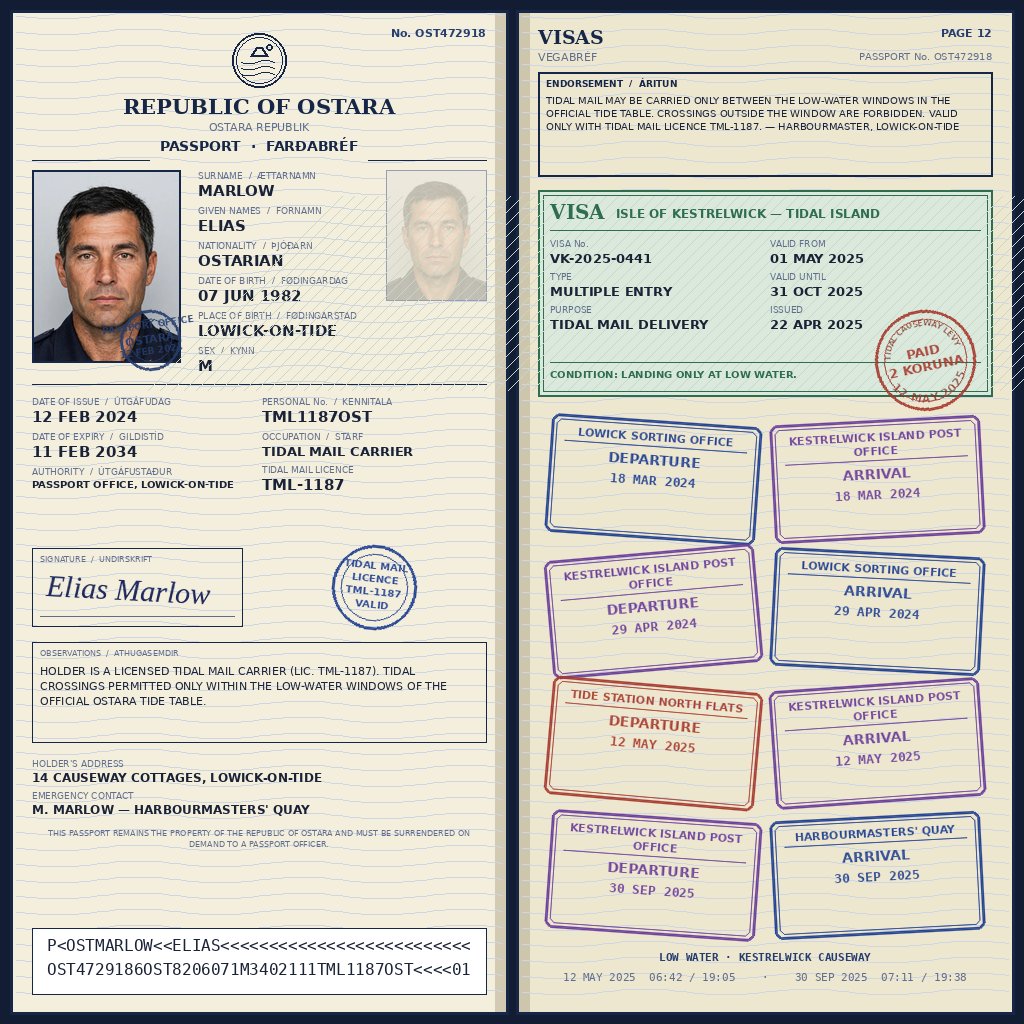
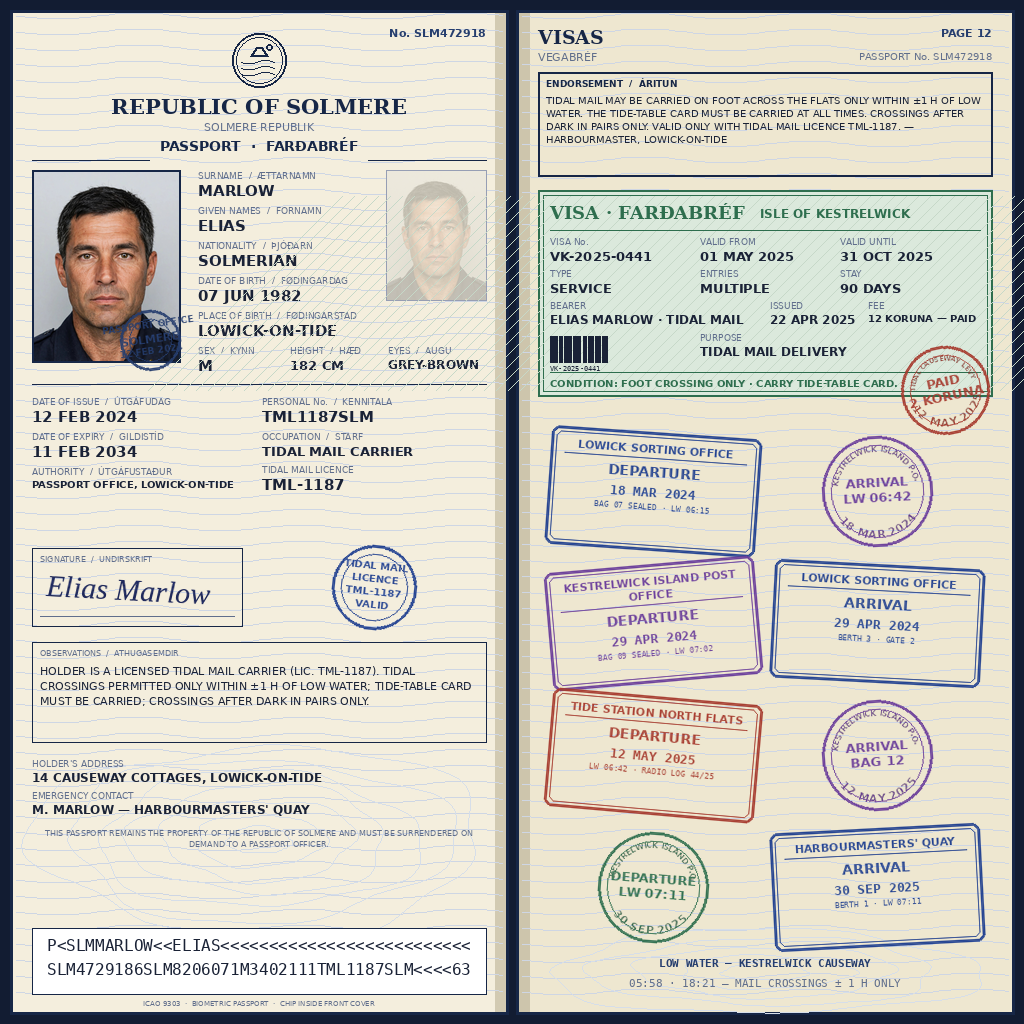
Republic of Solmere — tidal mail carrier's passport (v5, refined)

diff --git a/main.ts b/main.ts
@@ -1,4 +1,4 @@
-// Republic of Ostara passport spread — make.fun entry.
+// Republic of Solmere passport spread — make.fun entry.
 // Writes the pre-rendered, deterministic entry.png to the output directory.
 // The image itself is generated by generate.py (PIL, no network, no
 // randomness, verified byte-identical across runs); this entrypoint only

diff --git a/generate.py b/generate.py
@@ -1,5 +1,5 @@
 #!/usr/bin/env python3
-"""Deterministic generator for the Republic of Ostara passport spread (1024x1024).
+"""Deterministic generator for the Republic of Solmere passport spread (1024x1024).
 
 Builds entry.png from portrait.jpg with PIL only. No network, no randomness,
 no timestamps: re-running produces a byte-identical file.
@@ -137,7 +137,7 @@ def round_stamp(base, cx, cy, r, top_text, bottom_text, centre_lines, color,
     base.paste(layer, (int(cx - s / 2), int(cy - s / 2)), layer)
 
 
-def rect_stamp(base, x, y, w, h, station, kind, date, color, angle):
+def rect_stamp(base, x, y, w, h, station, kind, date, color, angle, note=""):
     pad = 26
     layer = Image.new("RGBA", (w + pad * 2, h + pad * 2), (0, 0, 0, 0))
     d = ImageDraw.Draw(layer)
@@ -164,8 +164,24 @@ def rect_stamp(base, x, y, w, h, station, kind, date, color, angle):
     yy += 20
     f = MONOB(13)
     d.text((cx - f.getlength(date) / 2, yy), date, font=f, fill=col)
+    if note:
+        f = MONO(8)
+        d.text((cx - f.getlength(note) / 2, yy + 18), note, font=f, fill=col)
     layer = layer.rotate(angle, resample=Image.BICUBIC, expand=False)
     base.paste(layer, (int(x - pad), int(y - pad)), layer)
+
+
+def contour(d, cx, cy, rx, ry, rings=6, color=(214, 222, 233)):
+    """Faint tidal-flat contour watermark: nested wavy closed curves."""
+    for k in range(rings):
+        f = (k + 1) / rings
+        pts = []
+        for t in range(0, 361, 4):
+            a = math.radians(t)
+            wob = 1 + 0.06 * math.sin(3 * a + k * 1.7) + 0.04 * math.sin(7 * a + k)
+            pts.append((cx + rx * f * wob * math.cos(a),
+                        cy + ry * f * wob * math.sin(a)))
+        d.line(pts, fill=color, width=1)
 
 
 def emblem(d, cx, cy, r, color=NAVY):
@@ -196,16 +212,19 @@ def build():
     d.rectangle([516, 10, 1014, 1014], outline=NAVY, width=3)
     guilloche(d, 16, 16, 502, 1008)
     guilloche(d, 522, 16, 1008, 1008)
+    # faint tidal-flat contour watermarks (drawn first, text sits on top)
+    contour(d, 259, 840, 225, 95, rings=7)
+    contour(d, 765, 972, 215, 42, rings=5)
 
     # ================= LEFT: DATA PAGE =================
     LX0, LX1 = 32, 486
-    d.text((LX1 - SANSB(11).getlength("No. OST472918"), 26),
-           "No. OST472918", font=SANSB(11), fill=NAVY2)
+    d.text((LX1 - SANSB(11).getlength("No. SLM472918"), 26),
+           "No. SLM472918", font=SANSB(11), fill=NAVY2)
     emblem(d, 259, 60, 27)
-    t = "REPUBLIC OF OSTARA"
+    t = "REPUBLIC OF SOLMERE"
     f = SERIFB(21)
     d.text((259 - f.getlength(t) / 2, 94), t, font=f, fill=NAVY)
-    t = "OSTARA REPUBLIK"
+    t = "SOLMERE REPUBLIK"
     f = SANS(11)
     d.text((259 - f.getlength(t) / 2, 120), t, font=f, fill=GREYBLUE)
     t = "PASSPORT  ·  FARÐABRÉF"
@@ -246,10 +265,13 @@ def build():
     fx, fy = 198, 170
     fy = field(d, fx, fy, "SURNAME  /  ÆTTARNAMN", "MARLOW", w=180)
     fy = field(d, fx, fy, "GIVEN NAMES  /  FORNAMN", "ELIAS", w=180)
-    fy = field(d, fx, fy, "NATIONALITY  /  ÞJÓÐARN", "OSTARIAN", w=180)
+    fy = field(d, fx, fy, "NATIONALITY  /  ÞJÓÐARN", "SOLMERIAN", w=180)
     fy = field(d, fx, fy, "DATE OF BIRTH  /  FØDINGARDAG", "07 JUN 1982", w=180)
     fy = field(d, fx, fy, "PLACE OF BIRTH  /  FØDINGARSTAD", "LOWICK-ON-TIDE", w=180)
-    fy = field(d, fx, fy, "SEX  /  KYNN", "M", w=180)
+    # split row: sex + height + eyes
+    field(d, fx, fy, "SEX  /  KYNN", "M", w=80)
+    field(d, 290, fy, "HEIGHT  /  HÆÐ", "182 CM", vsize=13, w=90)
+    field(d, 388, fy, "EYES  /  AUGU", "GREY-BROWN", vsize=13, w=98)
 
     d.line([LX0, 384, LX1, 384], fill=NAVY, width=1)
     y = 396
@@ -258,7 +280,7 @@ def build():
     y = field(d, LX0, y, "AUTHORITY  /  ÚTGÁFUSTAÐUR",
               "PASSPORT OFFICE, LOWICK-ON-TIDE", vsize=12, w=210)
     y2 = 396
-    y2 = field(d, 262, y2, "PERSONAL No.  /  KENNITALA", "TML1187OST", w=224)
+    y2 = field(d, 262, y2, "PERSONAL No.  /  KENNITALA", "TML1187SLM", w=224)
     y2 = field(d, 262, y2, "OCCUPATION  /  STARF", "TIDAL MAIL CARRIER", vsize=13, w=224)
     y2 = field(d, 262, y2, "TIDAL MAIL LICENCE", "TML-1187", w=224)
 
@@ -282,8 +304,9 @@ def build():
     d.text((LX0 + 8, 648), "OBSERVATIONS  /  ATHUGASEMDIR", font=SANS(8),
            fill=GREYBLUE)
     obs = ("HOLDER IS A LICENSED TIDAL MAIL CARRIER (LIC. TML-1187). "
-           "TIDAL CROSSINGS PERMITTED ONLY WITHIN THE LOW-WATER WINDOWS "
-           "OF THE OFFICIAL OSTARA TIDE TABLE.")
+           "TIDAL CROSSINGS PERMITTED ONLY WITHIN ±1 H OF LOW WATER; "
+           "TIDE-TABLE CARD MUST BE CARRIED; CROSSINGS AFTER DARK IN "
+           "PAIRS ONLY.")
     yy = 664
     for ln in wrap(obs, SANS(11), LX1 - LX0 - 16):
         d.text((LX0 + 8, yy), ln, font=SANS(11), fill=INK)
@@ -295,7 +318,7 @@ def build():
               vsize=12, w=454)
     y = field(d, LX0, y, "EMERGENCY CONTACT", "M. MARLOW — HARBOURMASTERS' QUAY",
               vsize=12, w=454)
-    fp = ("THIS PASSPORT REMAINS THE PROPERTY OF THE REPUBLIC OF OSTARA "
+    fp = ("THIS PASSPORT REMAINS THE PROPERTY OF THE REPUBLIC OF SOLMERE "
           "AND MUST BE SURRENDERED ON DEMAND TO A PASSPORT OFFICER.")
     yy = y + 6
     for ln in wrap(fp, SANS(8), LX1 - LX0):
@@ -305,17 +328,20 @@ def build():
 
     # issuing-office round stamp overlapping the photo corner only
     round_stamp(img, 150, 340, 30, "", "",
-                ["PASSPORT OFFICE", "OSTARA", "12 FEB 2024"], NAVY2, angle=8,
+                ["PASSPORT OFFICE", "SOLMERE", "12 FEB 2024"], NAVY2, angle=8,
                 arc=False)
 
     # MRZ
     d.rectangle([LX0, 928, LX1, 994], fill=(255, 255, 255))
     d.rectangle([LX0, 928, LX1, 994], outline=NAVY, width=1)
-    m1 = "P<OSTMARLOW<<ELIAS<<<<<<<<<<<<<<<<<<<<<<<<<<"
-    m2 = "OST4729186OST8206071M3402111TML1187OST<<<<01"
+    m1 = "P<SLMMARLOW<<ELIAS<<<<<<<<<<<<<<<<<<<<<<<<<<"
+    m2 = "SLM4729186SLM8206071M3402111TML1187SLM<<<<63"
     fm = MONO(16)
     d.text((259 - fm.getlength(m1) / 2, 936), m1, font=fm, fill=INK)
     d.text((259 - fm.getlength(m2) / 2, 960), m2, font=fm, fill=INK)
+    t = "ICAO 9303  ·  BIOMETRIC PASSPORT  ·  CHIP INSIDE FRONT COVER"
+    f = SANS(7)
+    d.text((259 - f.getlength(t) / 2, 999), t, font=f, fill=GREYBLUE)
 
     # ================= RIGHT: VISAS PAGE =================
     RX0, RX1 = 538, 992
@@ -328,23 +354,24 @@ def build():
     t = "PAGE 12"
     f = SANSB(11)
     d.text((RX1 - f.getlength(t), 26), t, font=f, fill=NAVY2)
-    t = "PASSPORT No. OST472918"
+    t = "PASSPORT No. SLM472918"
     f = SANS(10)
     d.text((RX1 - f.getlength(t), 50), t, font=f, fill=GREYBLUE)
 
     # endorsement box
     d.rectangle([RX0, 72, RX1, 176], outline=NAVY, width=2)
     d.text((RX0 + 8, 78), "ENDORSEMENT  /  ÁRITUN", font=SANSB(9), fill=NAVY)
-    end = ("TIDAL MAIL MAY BE CARRIED ONLY BETWEEN THE LOW-WATER WINDOWS "
-           "IN THE OFFICIAL TIDE TABLE. CROSSINGS OUTSIDE THE WINDOW ARE "
-           "FORBIDDEN. VALID ONLY WITH TIDAL MAIL LICENCE TML-1187. — "
-           "HARBOURMASTER, LOWICK-ON-TIDE")
+    end = ("TIDAL MAIL MAY BE CARRIED ON FOOT ACROSS THE FLATS ONLY "
+           "WITHIN ±1 H OF LOW WATER. THE TIDE-TABLE CARD MUST BE CARRIED "
+           "AT ALL TIMES. CROSSINGS AFTER DARK IN PAIRS ONLY. VALID ONLY "
+           "WITH TIDAL MAIL LICENCE TML-1187. — HARBOURMASTER, "
+           "LOWICK-ON-TIDE")
     yy = 94
     for ln in wrap(end, SANS(10), RX1 - RX0 - 16):
         d.text((RX0 + 8, yy), ln, font=SANS(10), fill=INK)
         yy += 13
 
-    # visa sticker
+    # visa sticker — service / occupational visa with barcode + bearer line
     vx0, vy0, vx1, vy1 = RX0, 190, RX1, 396
     d.rectangle([vx0, vy0, vx1, vy1], fill=(219, 233, 220))
     d.rectangle([vx0, vy0, vx1, vy1], outline=GREEN, width=2)
@@ -353,53 +380,73 @@ def build():
     for k in range(-vy1, vx1, 12):
         d.line([vx0 + 6 + k, vy1 - 6, vx0 + 6 + k + (vy1 - vy0 - 12), vy0 + 6],
                fill=(198, 216, 200), width=1)
-    t = "VISA"
-    f = SERIFB(20)
-    d.text((vx0 + 12, vy0 + 10), t, font=f, fill=GREEN)
-    t = "ISLE OF KESTRELWICK — TIDAL ISLAND"
+    t = "VISA · FARÐABRÉF"
+    f = SERIFB(18)
+    d.text((vx0 + 12, vy0 + 12), t, font=f, fill=GREEN)
+    t = "ISLE OF KESTRELWICK"
     f = SANSB(12)
-    d.text((vx0 + 78, vy0 + 16), t, font=f, fill=GREEN)
+    d.text((vx0 + 222, vy0 + 16), t, font=f, fill=GREEN)
     d.line([vx0 + 12, vy0 + 40, vx1 - 12, vy0 + 40], fill=GREEN, width=1)
-    vy = vy0 + 48
-    vy = field(d, vx0 + 12, vy, "VISA No.", "VK-2025-0441", vsize=13, w=200)
-    vy = field(d, vx0 + 12, vy, "TYPE", "MULTIPLE ENTRY", vsize=13, w=200)
-    vy = field(d, vx0 + 12, vy, "PURPOSE", "TIDAL MAIL DELIVERY", vsize=13, w=200)
-    vy2 = vy0 + 48
-    vy2 = field(d, vx0 + 232, vy2, "VALID FROM", "01 MAY 2025", vsize=13, w=200)
-    vy2 = field(d, vx0 + 232, vy2, "VALID UNTIL", "31 OCT 2025", vsize=13, w=200)
-    vy2 = field(d, vx0 + 232, vy2, "ISSUED", "22 APR 2025", vsize=13, w=200)
-    d.line([vx0 + 12, vy1 - 34, vx1 - 12, vy1 - 34], fill=GREEN, width=1)
-    t = "CONDITION: LANDING ONLY AT LOW WATER."
+    vy = vy0 + 46
+    field(d, vx0 + 12, vy, "VISA No.", "VK-2025-0441", vsize=13, w=140)
+    field(d, vx0 + 162, vy, "VALID FROM", "01 MAY 2025", vsize=13, w=130)
+    field(d, vx0 + 302, vy, "VALID UNTIL", "31 OCT 2025", vsize=13, w=130)
+    vy = vy0 + 78
+    field(d, vx0 + 12, vy, "TYPE", "SERVICE", vsize=13, w=140)
+    field(d, vx0 + 162, vy, "ENTRIES", "MULTIPLE", vsize=13, w=130)
+    field(d, vx0 + 302, vy, "STAY", "90 DAYS", vsize=13, w=130)
+    vy = vy0 + 110
+    field(d, vx0 + 12, vy, "BEARER", "ELIAS MARLOW · TIDAL MAIL", vsize=12, w=210)
+    field(d, vx0 + 232, vy, "ISSUED", "22 APR 2025", vsize=12, w=100)
+    field(d, vx0 + 330, vy, "FEE", "12 KORUNA — PAID", vsize=11, w=112)
+    # barcode (deterministic bars from the visa number digits)
+    bx, by = vx0 + 12, vy0 + 146
+    digits = "20250441"
+    x = bx
+    for ch in digits:
+        wdt = 3 + 2 * (int(ch) % 3)
+        d.rectangle([x, by, x + wdt, by + 26], fill=INK)
+        x += wdt + 2 + (int(ch) % 2)
+    d.text((bx, by + 28), "VK-2025-0441", font=MONO(7), fill=INK)
+    field(d, vx0 + 162, vy0 + 142, "PURPOSE", "TIDAL MAIL DELIVERY",
+          vsize=12, w=280)
+    d.line([vx0 + 12, vy1 - 24, vx1 - 12, vy1 - 24], fill=GREEN, width=1)
+    t = "CONDITION: FOOT CROSSING ONLY · CARRY TIDE-TABLE CARD."
     f = SANSB(10)
-    d.text((vx0 + 12, vy1 - 28), t, font=f, fill=GREEN)
+    d.text((vx0 + 12, vy1 - 19), t, font=f, fill=GREEN)
 
-    # PAID toll stamp overlapping the visa sticker
-    round_stamp(img, 925, 360, 50, "TIDAL CAUSEWAY LEVY", "12 MAY 2025",
+    # PAID toll stamp overlapping the visa sticker's bottom-right corner
+    round_stamp(img, 945, 390, 44, "TIDAL CAUSEWAY LEVY", "12 MAY 2025",
                 ["PAID", "2 KORUNA"], REDBROWN, angle=12)
 
-    # entry/exit stamps, chronological, 2 columns x 4 rows
-    stamps = [
-        ("LOWICK SORTING OFFICE", "DEPARTURE", "18 MAR 2024", BLUE, -4),
-        ("KESTRELWICK ISLAND POST OFFICE", "ARRIVAL", "18 MAR 2024", VIOLET, 3),
-        ("KESTRELWICK ISLAND POST OFFICE", "DEPARTURE", "29 APR 2024", VIOLET, 5),
-        ("LOWICK SORTING OFFICE", "ARRIVAL", "29 APR 2024", BLUE, -3),
-        ("TIDE STATION NORTH FLATS", "DEPARTURE", "12 MAY 2025", REDBROWN, -5),
-        ("KESTRELWICK ISLAND POST OFFICE", "ARRIVAL", "12 MAY 2025", VIOLET, 4),
-        ("KESTRELWICK ISLAND POST OFFICE", "DEPARTURE", "30 SEP 2025", VIOLET, -4),
-        ("HARBOURMASTERS' QUAY", "ARRIVAL", "30 SEP 2025", BLUE, 3),
-    ]
-    xs = [548, 772]
-    ys = [420, 552, 684, 816]
-    for i, (st, kind, dt, col, ang) in enumerate(stamps):
-        rect_stamp(img, xs[i % 2], ys[i // 2], 210, 118, st, kind, dt, col, ang)
+    # entry/exit stamps, chronological — mixed rectangular + round shapes,
+    # 4 ink colours, annotated with low-water times, mail bags, berths
+    rect_stamp(img, 548, 432, 210, 118, "LOWICK SORTING OFFICE", "DEPARTURE",
+               "18 MAR 2024", BLUE, -4, note="BAG 07 SEALED · LW 06:15")
+    round_stamp(img, 877, 491, 55, "KESTRELWICK ISLAND P.O.", "18 MAR 2024",
+                ["ARRIVAL", "LW 06:42"], VIOLET, angle=3)
+    rect_stamp(img, 548, 564, 210, 118, "KESTRELWICK ISLAND POST OFFICE",
+               "DEPARTURE", "29 APR 2024", VIOLET, 5,
+               note="BAG 09 SEALED · LW 07:02")
+    rect_stamp(img, 772, 564, 210, 118, "LOWICK SORTING OFFICE", "ARRIVAL",
+               "29 APR 2024", BLUE, -3, note="BERTH 3 · GATE 2")
+    rect_stamp(img, 548, 696, 210, 118, "TIDE STATION NORTH FLATS",
+               "DEPARTURE", "12 MAY 2025", REDBROWN, -5,
+               note="LW 06:42 · RADIO LOG 44/25")
+    round_stamp(img, 877, 755, 55, "KESTRELWICK ISLAND P.O.", "12 MAY 2025",
+                ["ARRIVAL", "BAG 12"], VIOLET, angle=4)
+    round_stamp(img, 653, 887, 55, "KESTRELWICK ISLAND P.O.", "30 SEP 2025",
+                ["DEPARTURE", "LW 07:11"], GREEN, angle=-4)
+    rect_stamp(img, 772, 828, 210, 118, "HARBOURMASTERS' QUAY", "ARRIVAL",
+               "30 SEP 2025", BLUE, 3, note="BERTH 1 · LW 07:11")
 
-    # tide-table strip
-    t1 = "LOW WATER · KESTRELWICK CAUSEWAY"
-    t2 = "12 MAY 2025  06:42 / 19:05    ·    30 SEP 2025  07:11 / 19:38"
+    # hook footer: tide-table strip
+    t1 = "LOW WATER — KESTRELWICK CAUSEWAY"
+    t2 = "05:58 · 18:21 — MAIL CROSSINGS ± 1 H ONLY"
     f = MONOB(11)
-    d.text((765 - f.getlength(t1) / 2, 950), t1, font=f, fill=NAVY2)
+    d.text((765 - f.getlength(t1) / 2, 956), t1, font=f, fill=NAVY2)
     f = MONO(11)
-    d.text((765 - f.getlength(t2) / 2, 970), t2, font=f, fill=GREYBLUE)
+    d.text((765 - f.getlength(t2) / 2, 976), t2, font=f, fill=GREYBLUE)
 
     img.save("entry.png", optimize=True)
     print("wrote entry.png")

diff --git a/README.md b/README.md
@@ -1,4 +1,4 @@
-# Republic of Ostara — Tidal Mail Carrier's Passport
+# Republic of Solmere — Tidal Mail Carrier's Passport
 
 ![make.fun](https://make.fun/badge/the-passport-page-of-a-countr-2-20261121-0318.svg)
 ![rank](https://make.fun/badge/the-passport-page-of-a-countr-2-20261121-0318/top234/the-passport-page-of-a-countr-2-20261121-entry-v5/rank.svg)
@@ -8,7 +8,7 @@ Entry for the make.fun bounty [The Passport Page of a Country That Isn't There](
 
 ## The document
 
-A two-page passport spread for the fictional **Republic of Ostara** (OST),
+A two-page passport spread for the fictional **Republic of Solmere** (SLM),
 held by **Elias Marlow**, a licensed **tidal mail carrier** from
 Lowick-on-Tide. He carries the mail on foot across the tidal flats to the
 Isle of Kestrelwick — only at low water, only within the windows of the
@@ -18,7 +18,7 @@ from the tidal stations and island post office, and the round PAID causeway
 levy stamp.
 
 - **Left — data page:** portrait, ghost portrait, trilingual labels
-  (English / Ostara), signature, observations, and an MRZ whose 7-3-1
+  (English / Solmere), signature, observations, and an MRZ whose 7-3-1
   check digits are computed and verified in the generator.
 - **Right — visas page:** endorsement box, a multiple-entry visitor visa to
   the Isle of Kestrelwick, eight chronological entry/exit stamps in three
